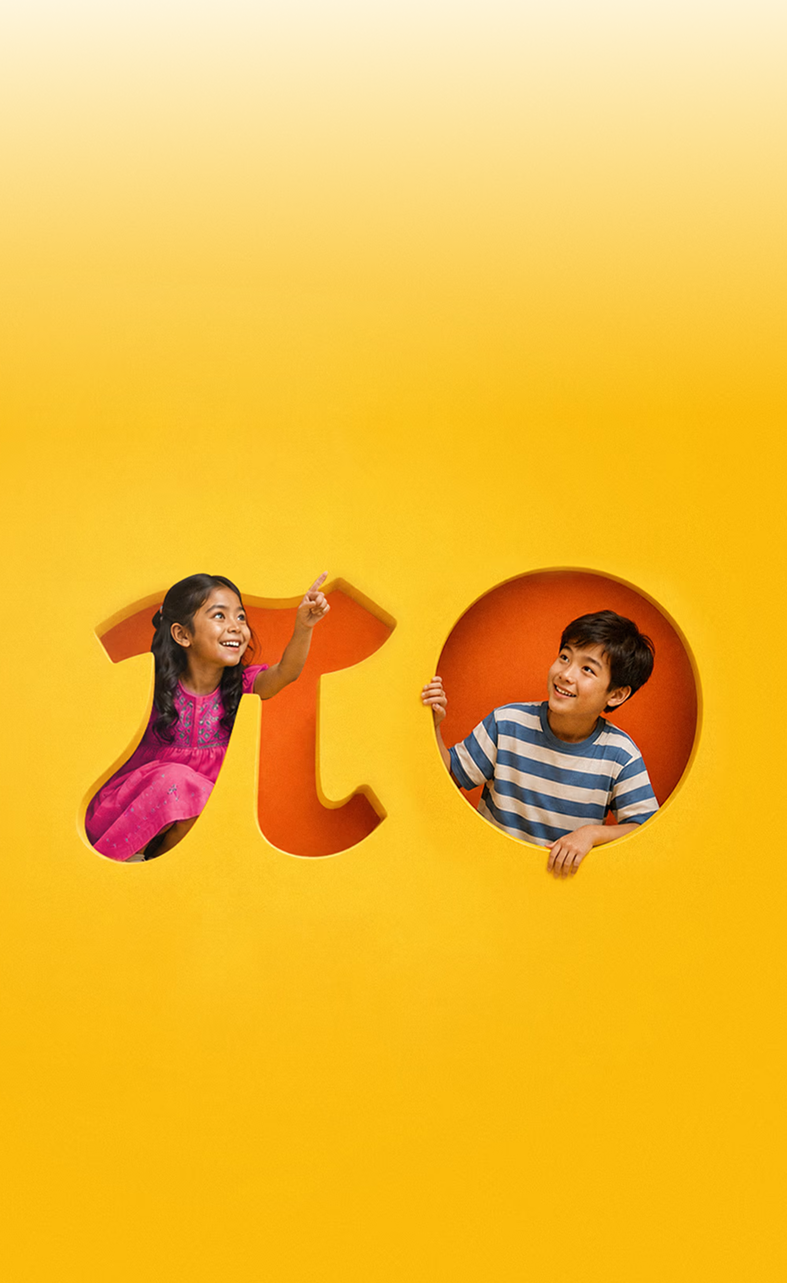
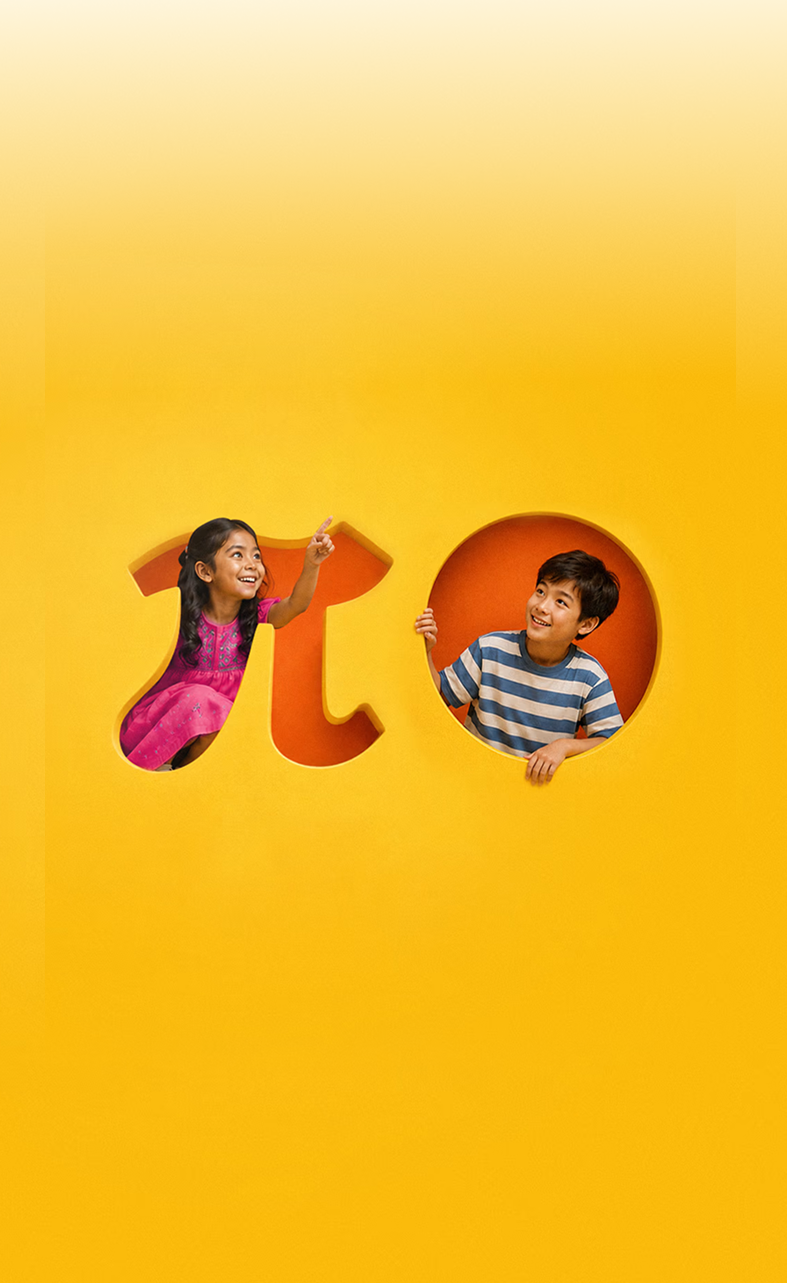
Updated Sep 10

Changed region(s): [[0.0915, 0.3741, 0.9149, 0.6859]]

diff --git a/css/styles.css b/css/styles.css
@@ -618,7 +618,7 @@ button {
     pointer-events: none;
     position: absolute;
     top: 0;
-    width: min(16vw, 180px);
+    width: min(6vw, 72px);
     z-index: 2;
 }
 
@@ -844,11 +844,11 @@ button {
 }
 
 .footer__inner {
-    align-items: center;
+    align-items: start;
     border-top: 1px solid var(--color-line);
     display: flex;
     justify-content: space-between;
-    gap: 48px;
+    gap: 20px;
     padding: 60px 0;
 }
 
@@ -2766,7 +2766,7 @@ select.form-field__control option {
 
     .nav__menu.is-open {
         display: flex;
-        padding-top:175px;
+        padding-top: 210px;
     }
 
     .nav__list {
@@ -2884,6 +2884,22 @@ select.form-field__control option {
     .footer__inner {
         align-items: flex-start;
         flex-direction: column;
+    }
+
+    .footer__meta {
+        gap: 50px;
+    }
+
+    .footer__address {
+        order: -1;
+    }
+
+    .footer__socials {
+        order: 1;
+    }
+
+    .footer__copyright {
+        order: 2;
     }
 
     .contact-main {
@@ -3245,7 +3261,7 @@ select.form-field__control option {
     .contact-main {
         gap: 36px;
         padding-bottom: 56px;
-        padding-top: 168px;
+        padding-top: 218px;
     }
 
     .contact-title {
@@ -3378,6 +3394,11 @@ select.form-field__control option {
         font-size: 1.0625rem;
     }
 
+    .testimonials__viewport::before,
+    .testimonials__viewport::after {
+        display: none;
+    }
+
     .cta__panel {
         gap: 32px;
         padding: 56px 20px;
@@ -3385,12 +3406,12 @@ select.form-field__control option {
 
     .footer__copyright,
     .footer__address {
-        font-size: .85rem;
+        font-size: .95rem;
     }
 
     .faq-hero {
         padding-bottom: 56px;
-        padding-top: 168px;
+        padding-top: 218px;
     }
 
     .faq-hero__title {

diff --git a/footer.php b/footer.php
@@ -3,10 +3,10 @@
         <div class="footer__meta">
             <p class="footer__copyright">@ Copyright <?php echo esc_html(date('Y')); ?> <?php bloginfo('name'); ?>.<br>All rights reserved.</p>
             <ul class="footer__socials" aria-label="Social links">
-                <li><a class="footer__social" href="#" aria-label="Facebook"><img src="<?php echo esc_url(get_theme_file_uri('/assets/icons/social-1.svg')); ?>" alt="Facebook"></a></li>
-                <li><a class="footer__social" href="#" aria-label="Instagram"><img src="<?php echo esc_url(get_theme_file_uri('/assets/icons/social-2.svg')); ?>" alt="Instagram"></a></li>
-                <li><a class="footer__social" href="#" aria-label="LinkedIn"><img src="<?php echo esc_url(get_theme_file_uri('/assets/icons/social-3.svg')); ?>" alt="LinkedIn"></a></li>
-                <li><a class="footer__social" href="#" aria-label="YouTube"><img src="<?php echo esc_url(get_theme_file_uri('/assets/icons/social-4.svg')) ?>" alt="YouTube"></a></li>
+                <li><a class="footer__social" href="https://www.facebook.com/BrightMindsCalgary/ " aria-label="Facebook" target="_blank"><img src="<?php echo esc_url(get_theme_file_uri('/assets/icons/social-1.svg')); ?>" alt="Facebook"></a></li>
+                <li><a class="footer__social" href="https://www.instagram.com/renertbrightminds/ " aria-label="Instagram" target="_blank"><img src="<?php echo esc_url(get_theme_file_uri('/assets/icons/social-4.svg')); ?>" alt="Instagram"></a></li>
+                <!-- <li><a class="footer__social" href="#" aria-label="LinkedIn"><img src="<?php //echo esc_url(get_theme_file_uri('/assets/icons/social-3.svg')); ?>" alt="LinkedIn"></a></li>
+                <li><a class="footer__social" href="#" aria-label="YouTube"><img src="<?php //echo esc_url(get_theme_file_uri('/assets/icons/social-4.svg')) ?>" alt="YouTube"></a></li> -->
             </ul>
         </div>
         <address class="footer__address">

diff --git a/front-page.php b/front-page.php
@@ -14,8 +14,8 @@
             <h1 class="hero__title" id="hero-title">Kids Are Smart</h1>
             <p class="hero__copy">Renert Bright Minds believes kids are capable of more than we expect. Our afterschool math and writing programs give them the challenge and space to discover what they can do. Weekly classes are available online or in person.</p>
             <div class="hero__action">
-                <a class="button button--primary" href="#assessment">Book a FREE Assessment</a>
-                <p class="hero__note">Free 30-minute assessment · Ages 5+</p>
+                <a class="button button--primary" href="#assessment">Contact Our Team</a>
+                <!-- <p class="hero__note">Free 30-minute assessment · Ages 5+</p> -->
             </div>
         </div>
     </section>
@@ -32,7 +32,7 @@
             <div class="split-section__content">
                 <h2 class="section-title" id="about-title">What is Renert Bright Minds?</h2>
                 <p class="split-section__copy">Renert Bright Minds brings the quality of a Renert education to after-school learning. Designed for students ages 5 and up, our math and writing enrichment programs help build strong academic skills in a supportive, challenging environment. Every child is assessed before entering a program to be matched with the appropriate peer group and instructor.</p>
-                <a class="button button--primary" href="#assessment">Book a FREE Assessment</a>
+                <a class="button button--primary" href="#assessment">Contact Our Team</a>
             </div>
             <div class="split-section__media">
                 <img class="split-section__image" src="<?php echo esc_url(get_theme_file_uri('/assets/images/renert-school-building.jpg')); ?>" alt="Renert School campus building">

diff --git a/page-contact.php b/page-contact.php
@@ -40,23 +40,23 @@
                             <img class="contact-hours__icon" src="<?php echo esc_url(get_theme_file_uri('assets/icons/contact-clock.png')); ?>" alt="">
                         </span>
                         <div>
-                            <h2 class="contact-hours__eyebrow">SUMMER 2026</h2>
-                            <p class="contact-hours__range">JUNE 16 - SEPT 7</p>
+                            <h2 class="contact-hours__eyebrow">SCHOOL YEAR 2026</h2>
+                            <p class="contact-hours__range">Starts Sept 8</p>
                         </div>
                     </div>
                     <dl class="contact-hours__list">
                         <div class="contact-hours__row">
                             <dt>Monday - Thursday</dt>
-                            <dd>4:00 - 7:00 PM</dd>
+                            <dd>12:00PM - 7:00PM</dd>
                         </div>
                         <div class="contact-hours__row">
-                            <dt>Friday - Saturday</dt>
+                            <dt>Sundays, statutory holidays, long weekends</dt>
                             <dd>Closed</dd>
                         </div>
-                        <div class="contact-hours__row">
+                        <!-- <div class="contact-hours__row">
                             <dt>Statutory Holidays</dt>
                             <dd>Closed</dd>
-                        </div>
+                        </div> -->
                     </dl>
                 </article>
 

diff --git a/header.php b/header.php
@@ -51,7 +51,7 @@
                     <li class="nav__item"><a class="nav__link <?php echo is_page('contact') ? 'active' : ''; ?>" href="<?php echo esc_url(home_url('/contact')); ?>">Contact</a></li>
                     <li class="nav__item"><a class="nav__link <?php echo is_page('faq') ? 'active' : ''; ?>" href="<?php echo esc_url(home_url('/faq')); ?>">FAQs</a></li>
                 </ul>
-                <a class="nav__portal" href="<?php echo esc_url('https://register.calgarybrightminds.com/'); ?>" target="_blank">Parent Portal</a>
+                <a class="nav__portal" href="<?php echo esc_url('https://register.calgarybrightminds.com/'); ?>" target="_blank">Family Portal </a>
             </div>
         </nav>
     </header>
